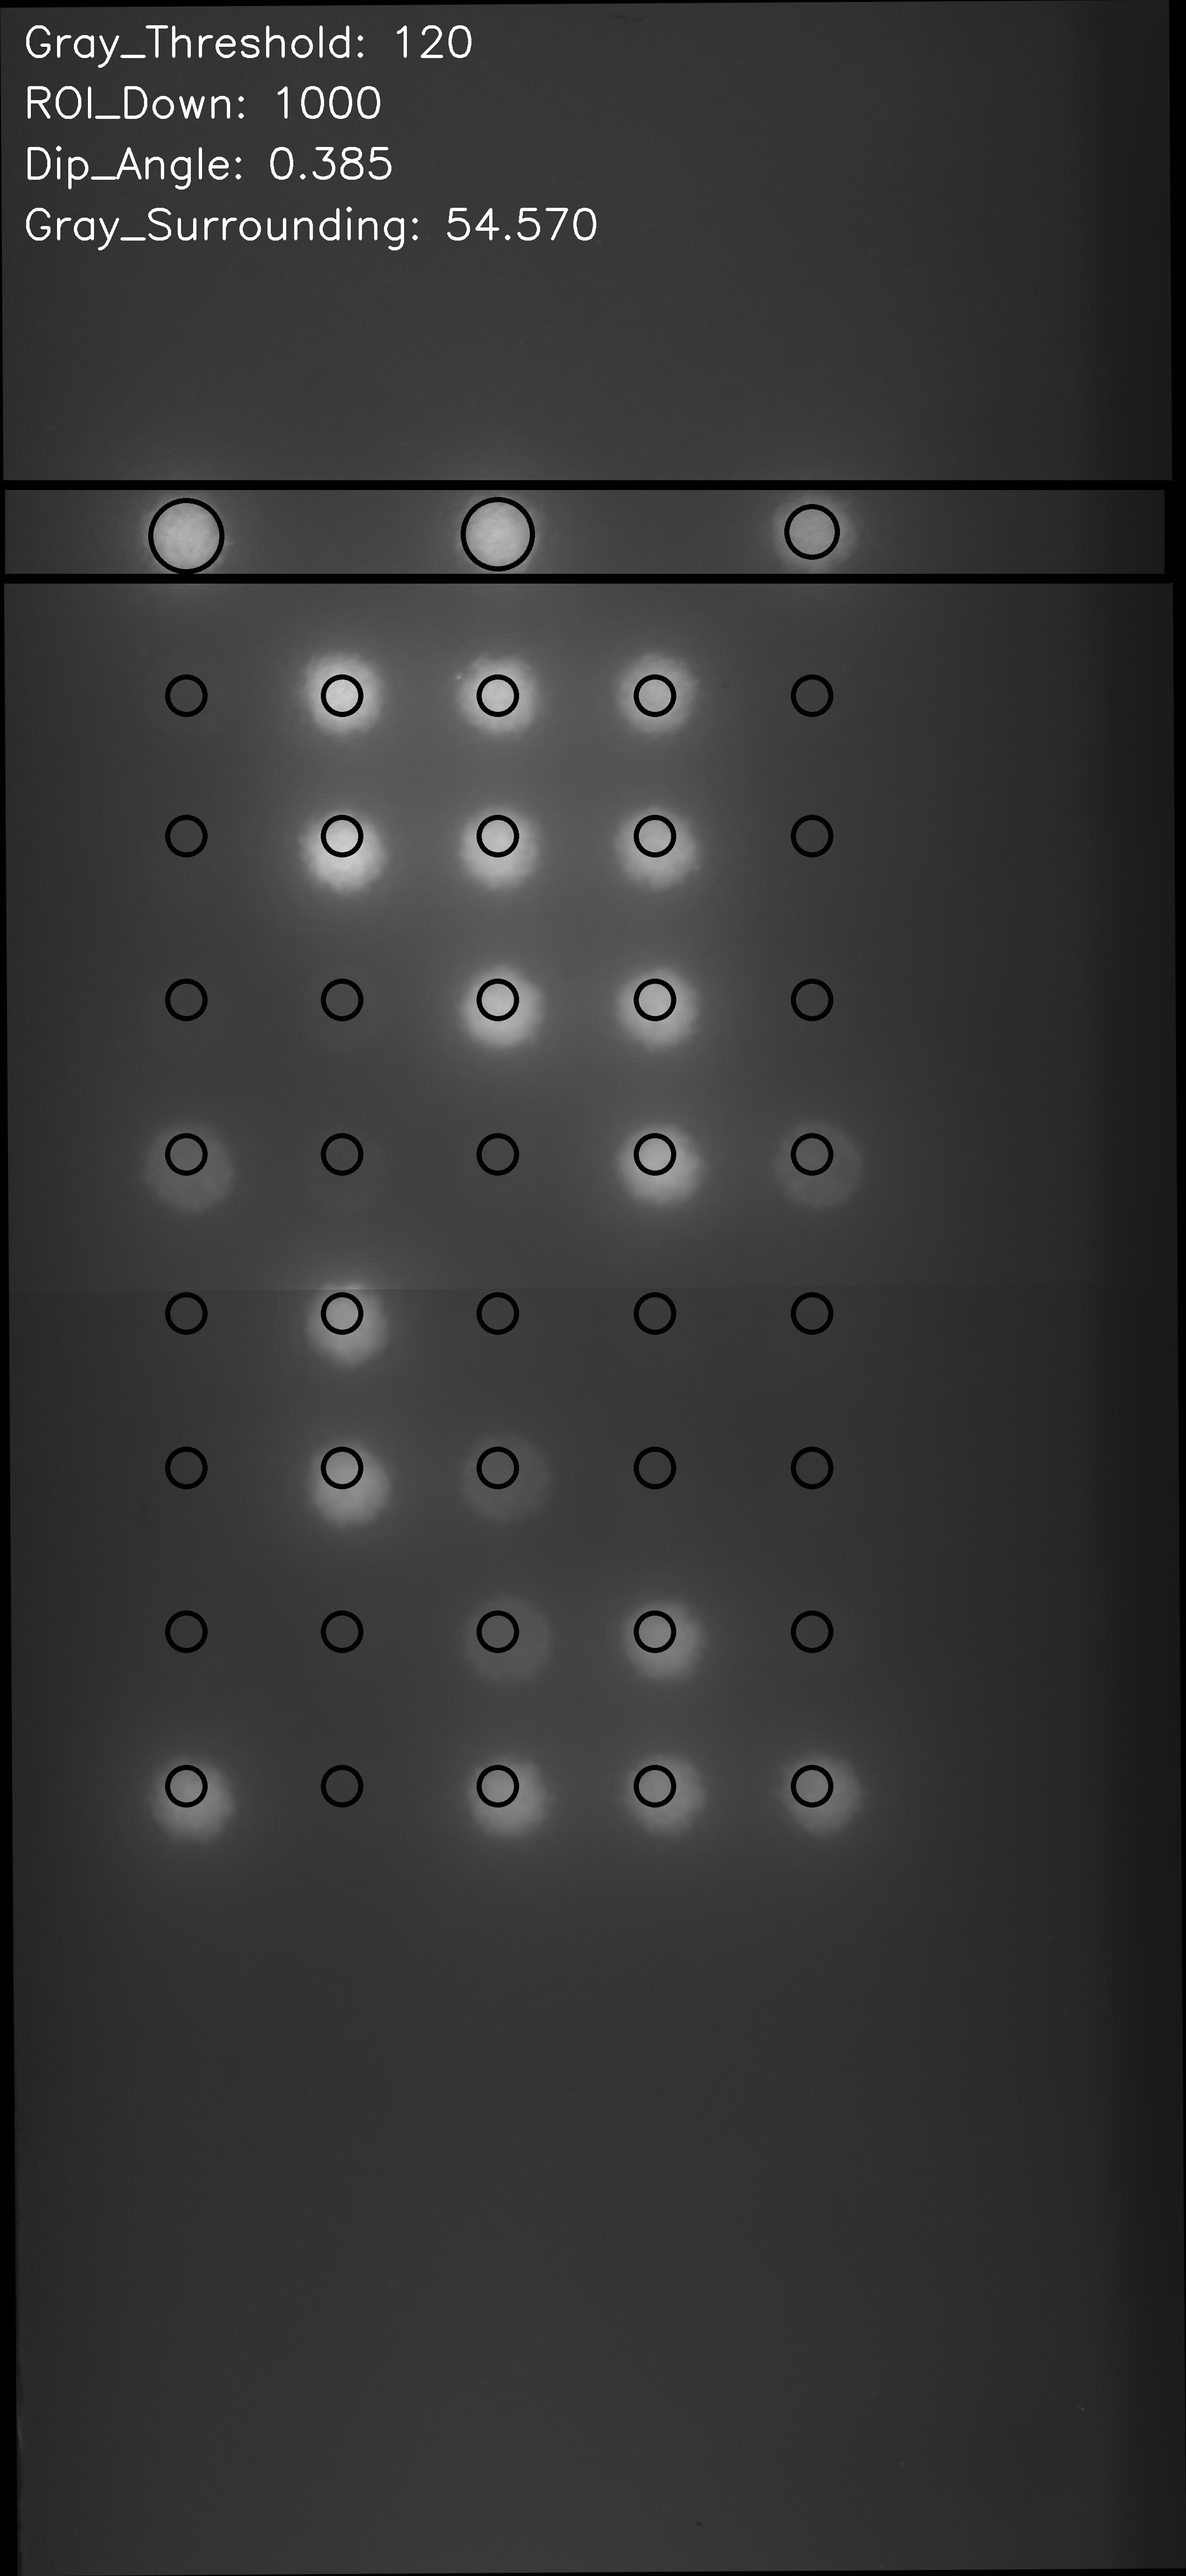
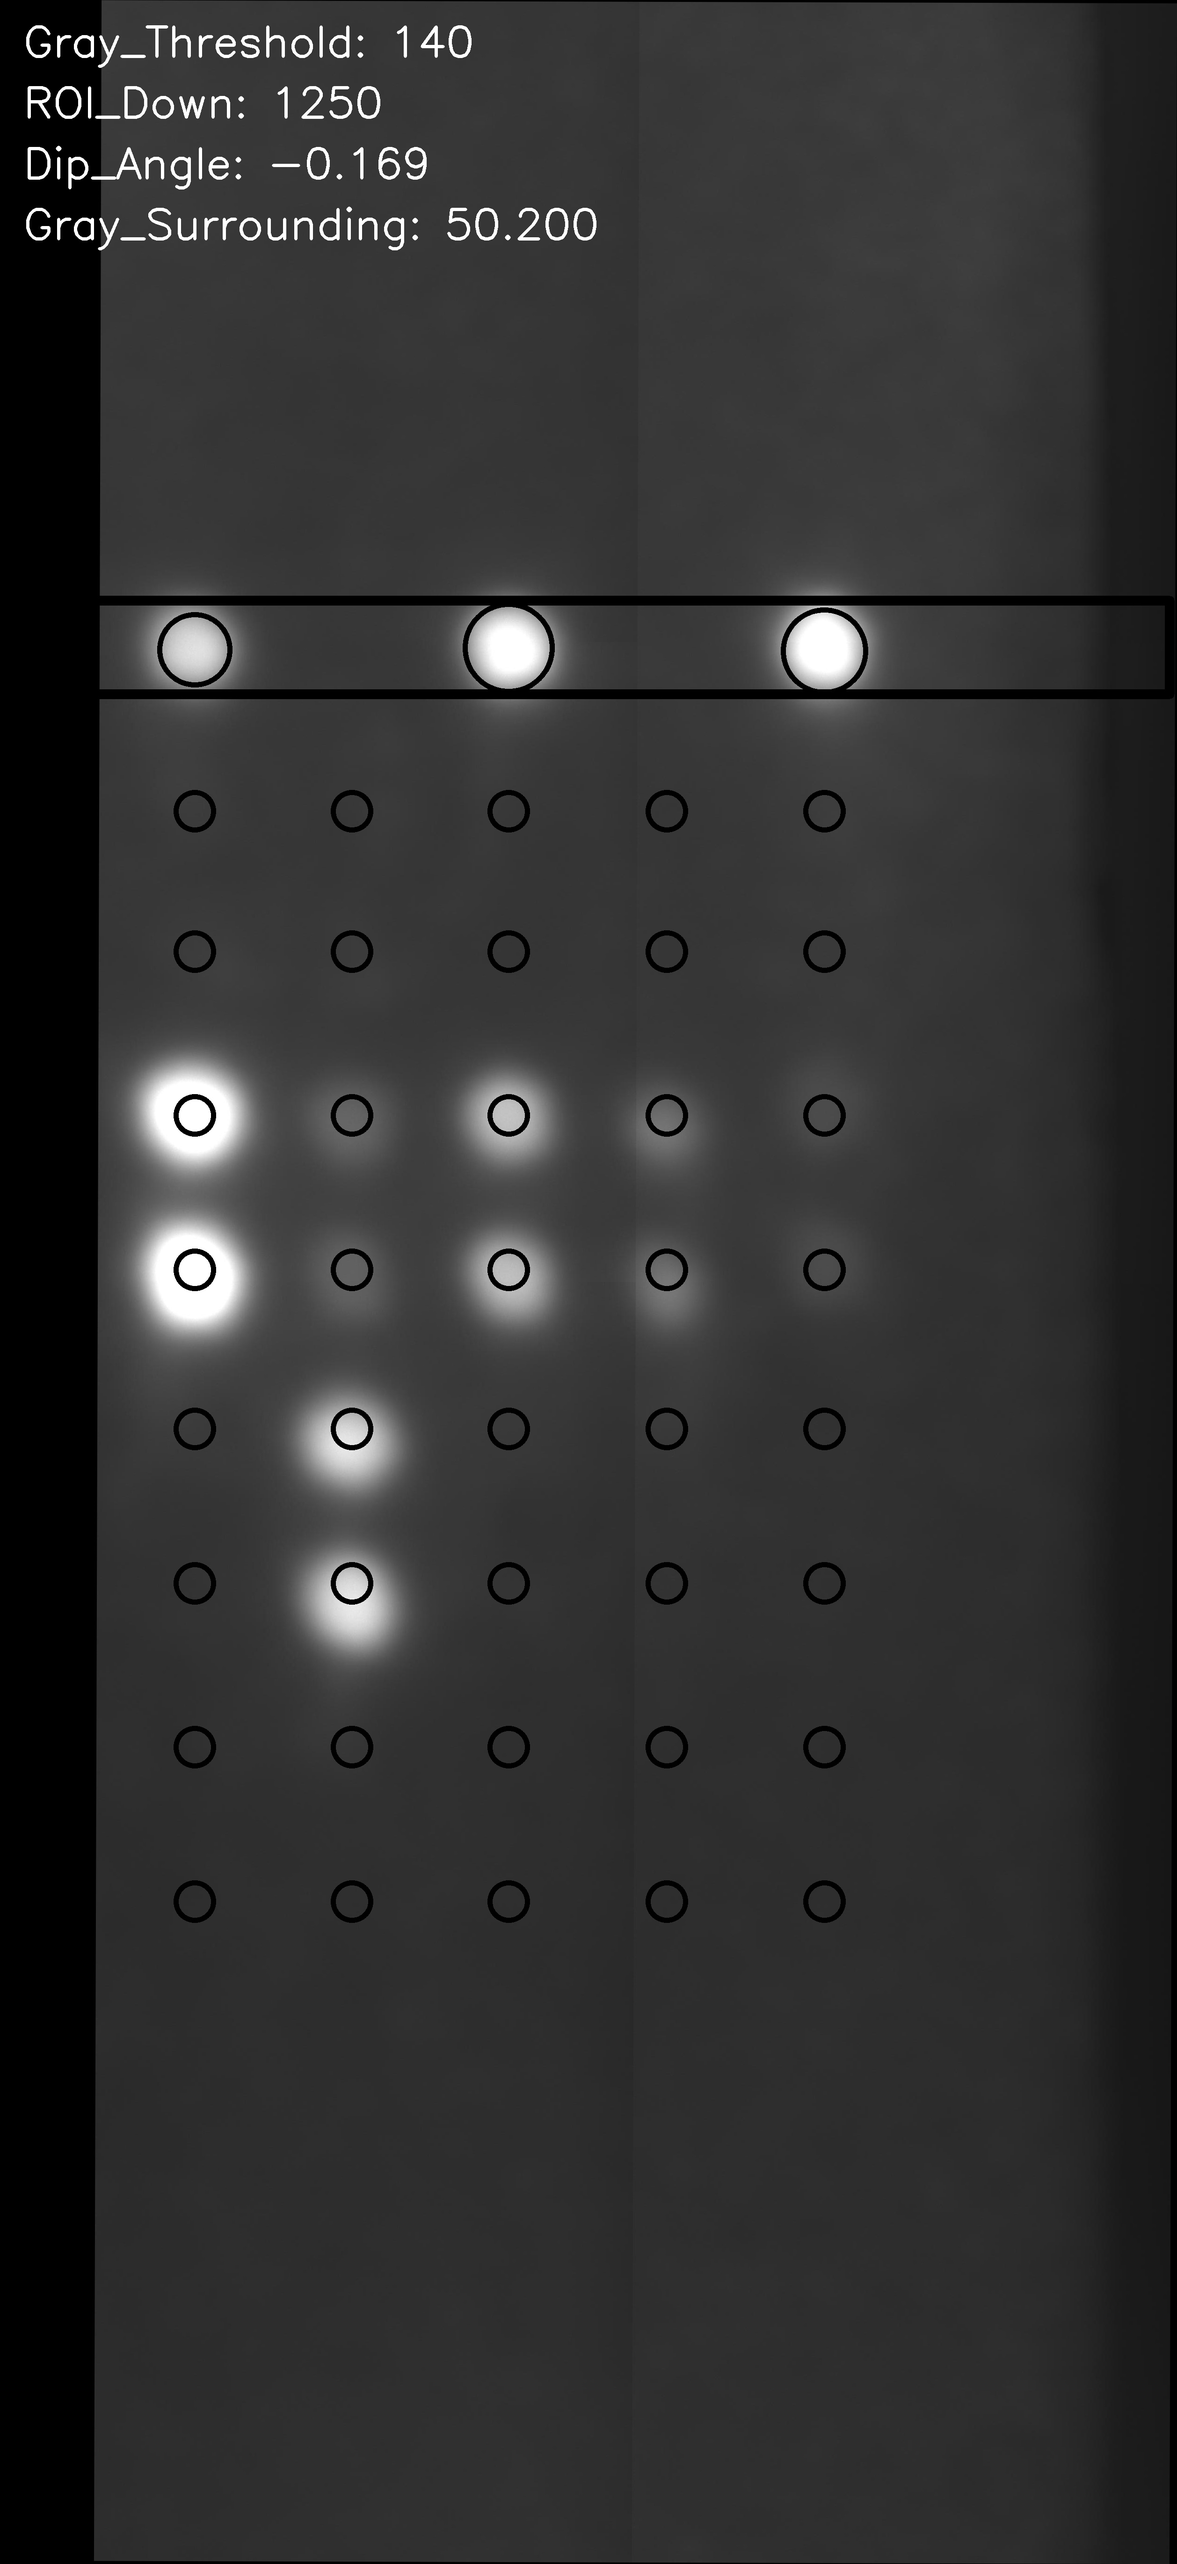
V1.3 增加时间消耗显示

diff --git a/1with_hardware/img_process.py b/1with_hardware/img_process.py
@@ -148,12 +148,12 @@ class Image_Processing:
         #   读取原始图像，并灰度化
         img_original = cv.cvtColor(cv.imread(path_read), cv.COLOR_RGB2GRAY)
         #   顺时针旋转90度
-        # (w, h) = img_original.shape[:2]
-        # center = (w // 2, h // 2)
-        # M = cv.getRotationMatrix2D(center, -90, 1.0)
-        # img_original = cv.warpAffine(img_original, M, (w, h))
-        # #   圈定图像获取区域
-        # img_original = img_original[0:w, (h - 2500):h]
+        (w, h) = img_original.shape[:2]
+        center = (w // 2, h // 2)
+        M = cv.getRotationMatrix2D(center, -90, 1.0)
+        img_original = cv.warpAffine(img_original, M, (w, h))
+        #   圈定图像获取区域
+        img_original = img_original[0:w, (h - 2500):h]
 
         return img_original
 
@@ -645,7 +645,7 @@ if __name__ == '__main__':
     #   开始时间
     # start = time.perf_counter()
 
-    imgPro.process(path_read='D:\\WorkSpace\\VIDAS\\0pic_datasheet\\V2.0now\\2-7.jpeg', path_write='./img_out/',
+    imgPro.process(path_read='D:\\WorkSpace\\VIDAS\\0pic_datasheet\\V2.0now\\1.jpeg', path_write='./img_out/',
                    reagent=(8, 5), radius=40)
 
     #   结束时间
